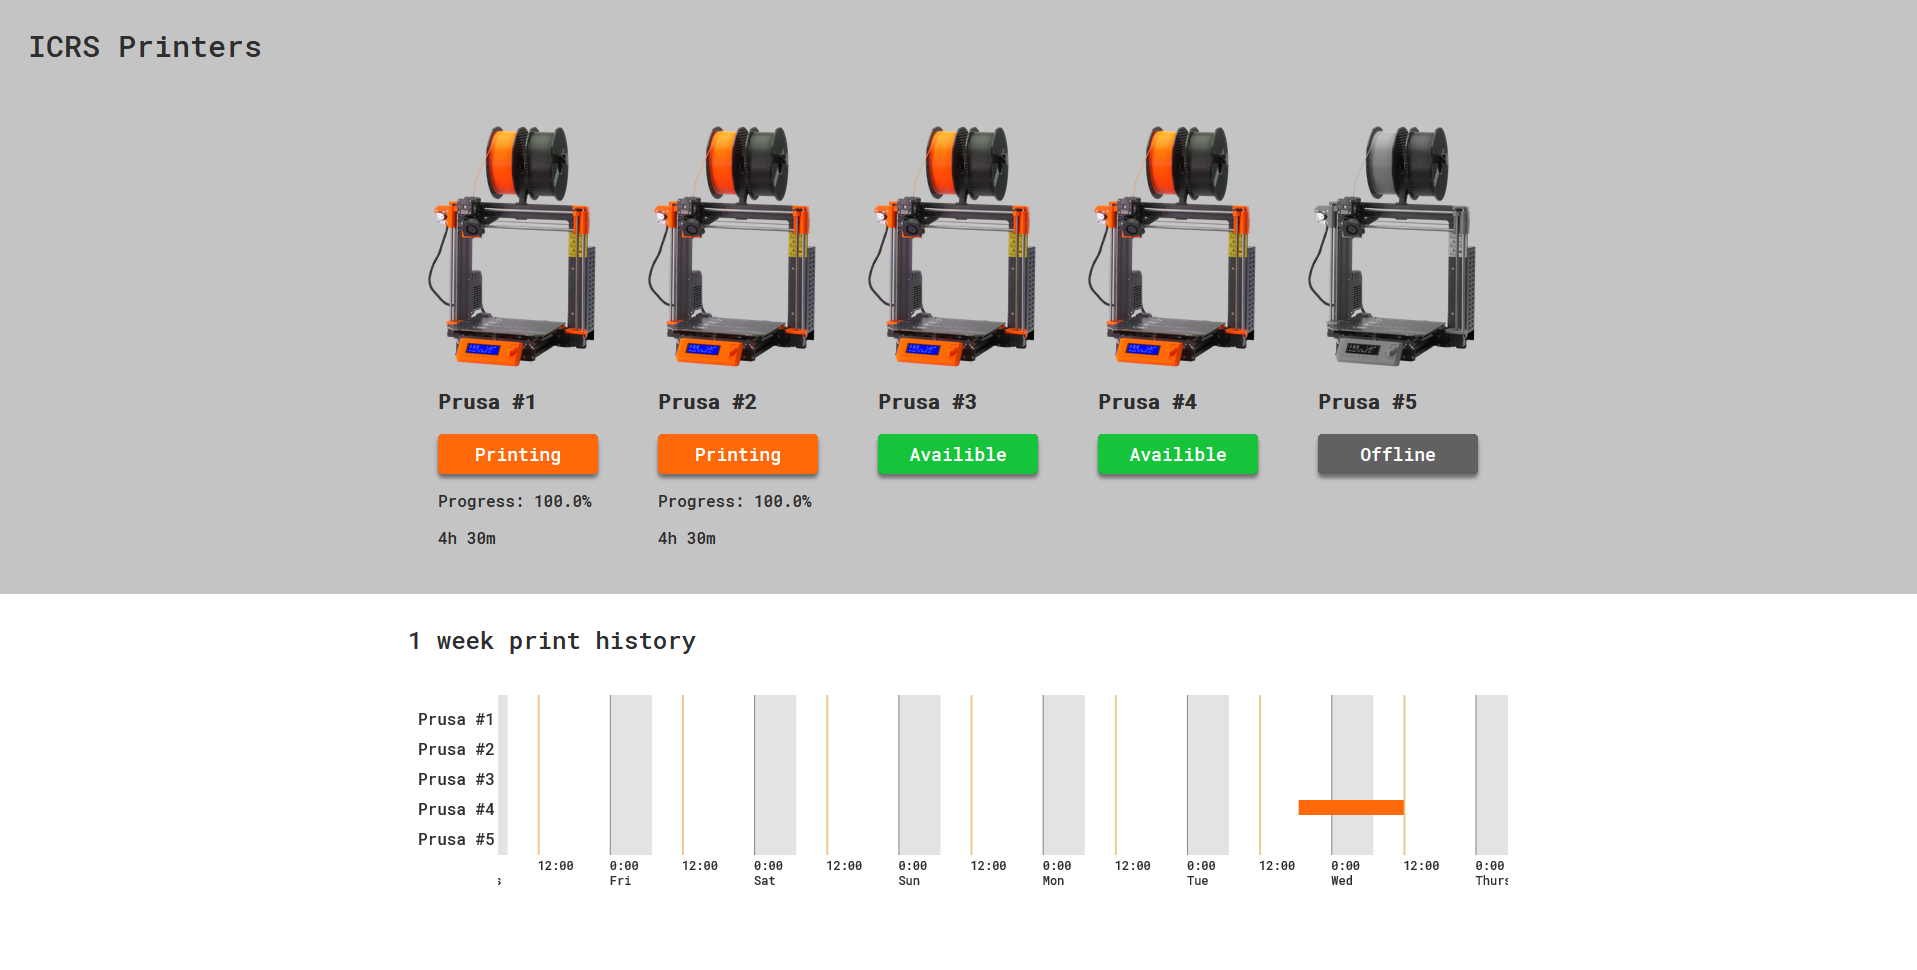
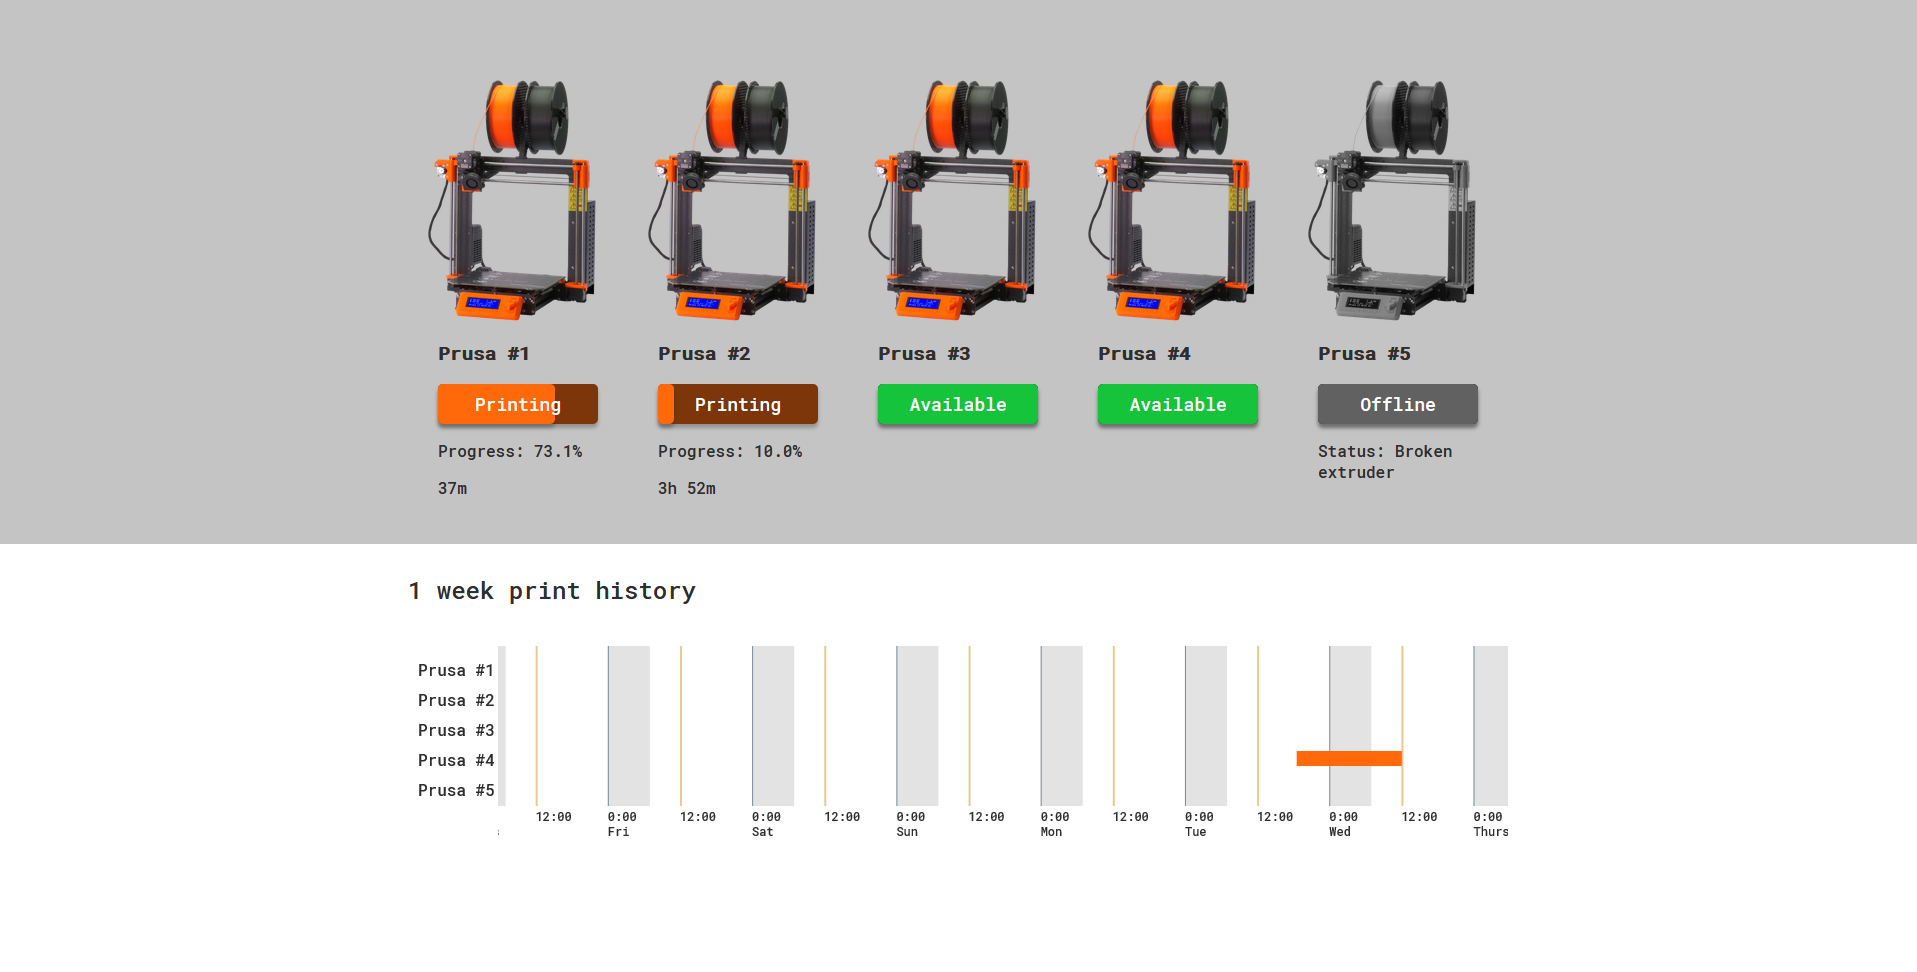
Updated screenshot, fixed typo in code

diff --git a/fakePrinterUpdate/ui.js b/fakePrinterUpdate/ui.js
@@ -5,7 +5,7 @@ const json = (response) => response.json();
 
 function updatePrinter(requestObj){
     const body = JSON.stringify(requestObj);
-    return fetch("http://192.168.1.73:8080/API/updateprinter", {
+    return fetch("http://localhost:8080/API/updatePrinter", {
         "method": "POST",
         "body": body,
         "headers": {
@@ -25,12 +25,13 @@ function updatePrinters(){
     console.log(timeLeftMins);
 
     const body = {
-        "requestType": "updatePrinter",
         "name": name,
         "progress": progress,
         "remaining_time": timeLeftMins,
-        "status": state
-    }
+        "status": state,
+        "api_id": 2,
+	    "api_key": "rIkC4tIHT09ervT7" // Would be changed in production
+    };
     updatePrinter(body);
 }
 

diff --git a/static/ui.js b/static/ui.js
@@ -53,12 +53,12 @@ function updatePrinter(printerElement, printer) {
                 remainingTime.textContent = `${hours}h ${mins}m`;
             }
             break;
-        case "Availible":
+        case "Available":
             printerImage.style.filter = "grayscale(0%)";
 
             progressBarBar.style.width = `100%`;
             progressBarBar.style.backgroundColor =
-                "var(--avalible-color)";
+                "var(--available-color)";
             break;
         case "Offline":
             printerImage.style.filter = "grayscale(100%)";

diff --git a/fakePrinterUpdate/index.html b/fakePrinterUpdate/index.html
@@ -15,7 +15,7 @@
         <p>Printer name to update</p>
         <input type="text" id="printer_name"></input>
 
-        <p>Printer state</p>
+        <p>Printer state ("Printing", "Available", "Offline", Fault description)</p>
         <input type="text" id="state"></input>
 
         <p>Printer progress (percent)</p>

diff --git a/static/default.css b/static/default.css
@@ -1,6 +1,6 @@
 :root
 {
-    --avalible-color: rgb(22, 196, 60);
+    --available-color: rgb(22, 196, 60);
     --printing-color-highlight: #FF6909;
     --printing-color-background: #7D3609;
     --offline-color: #616161;
